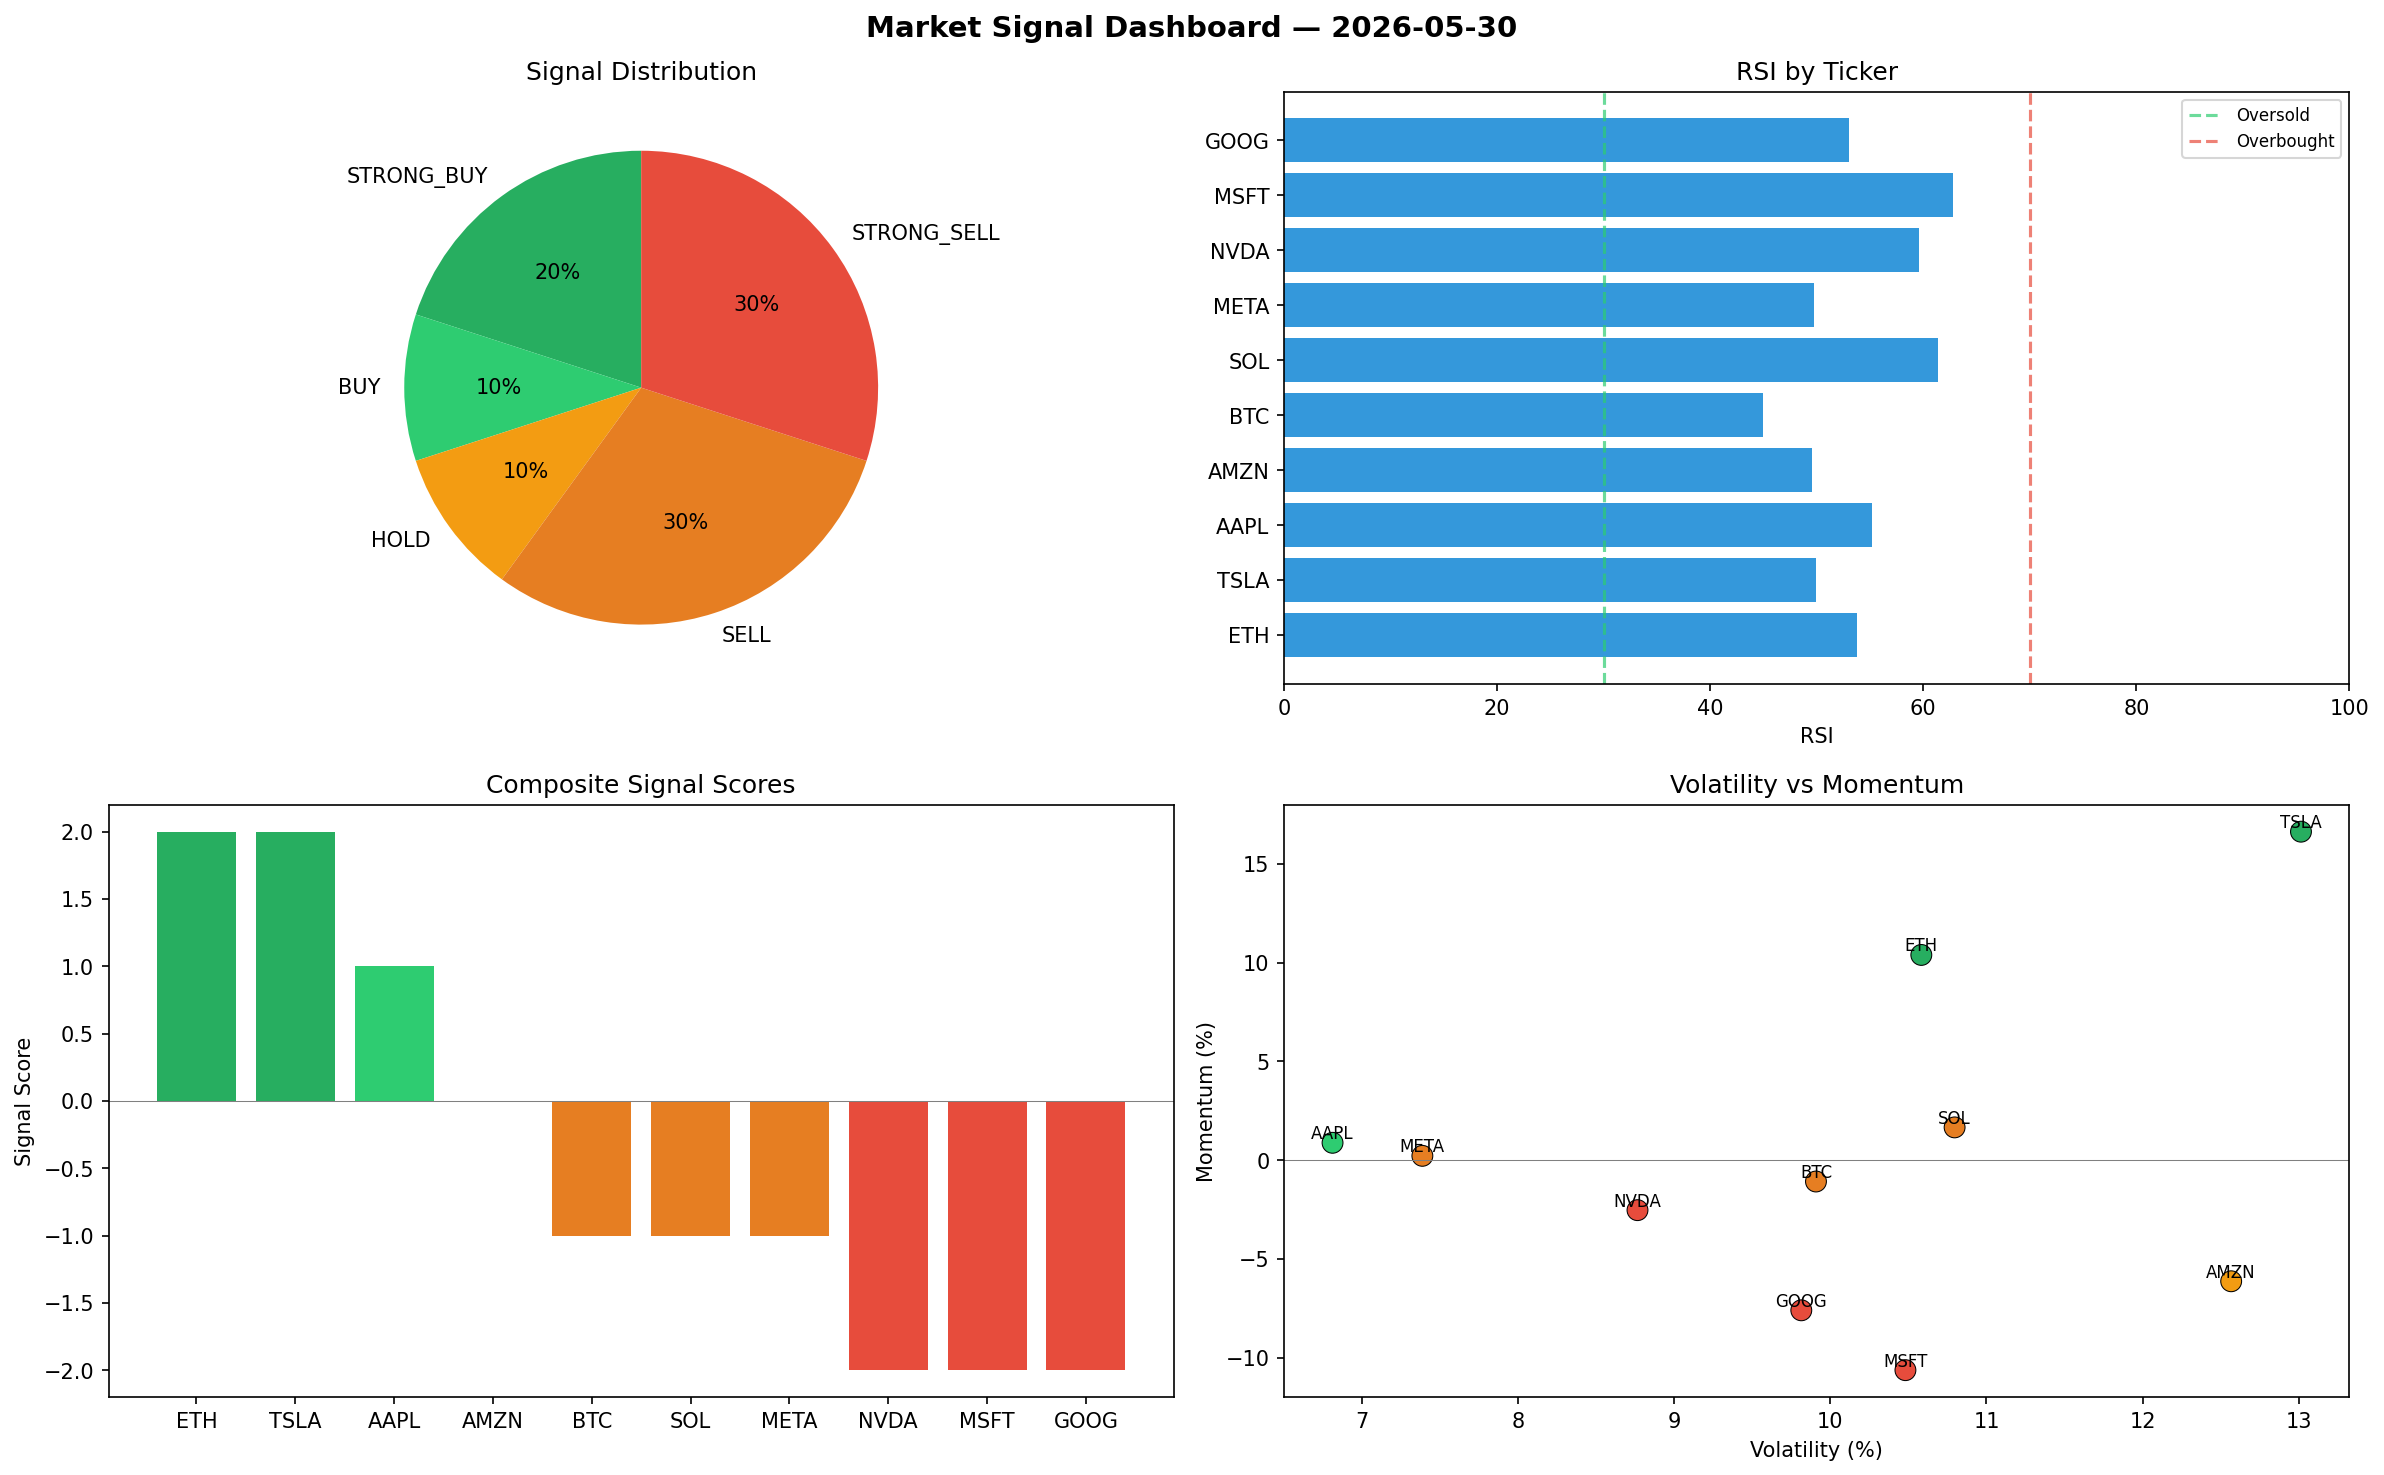
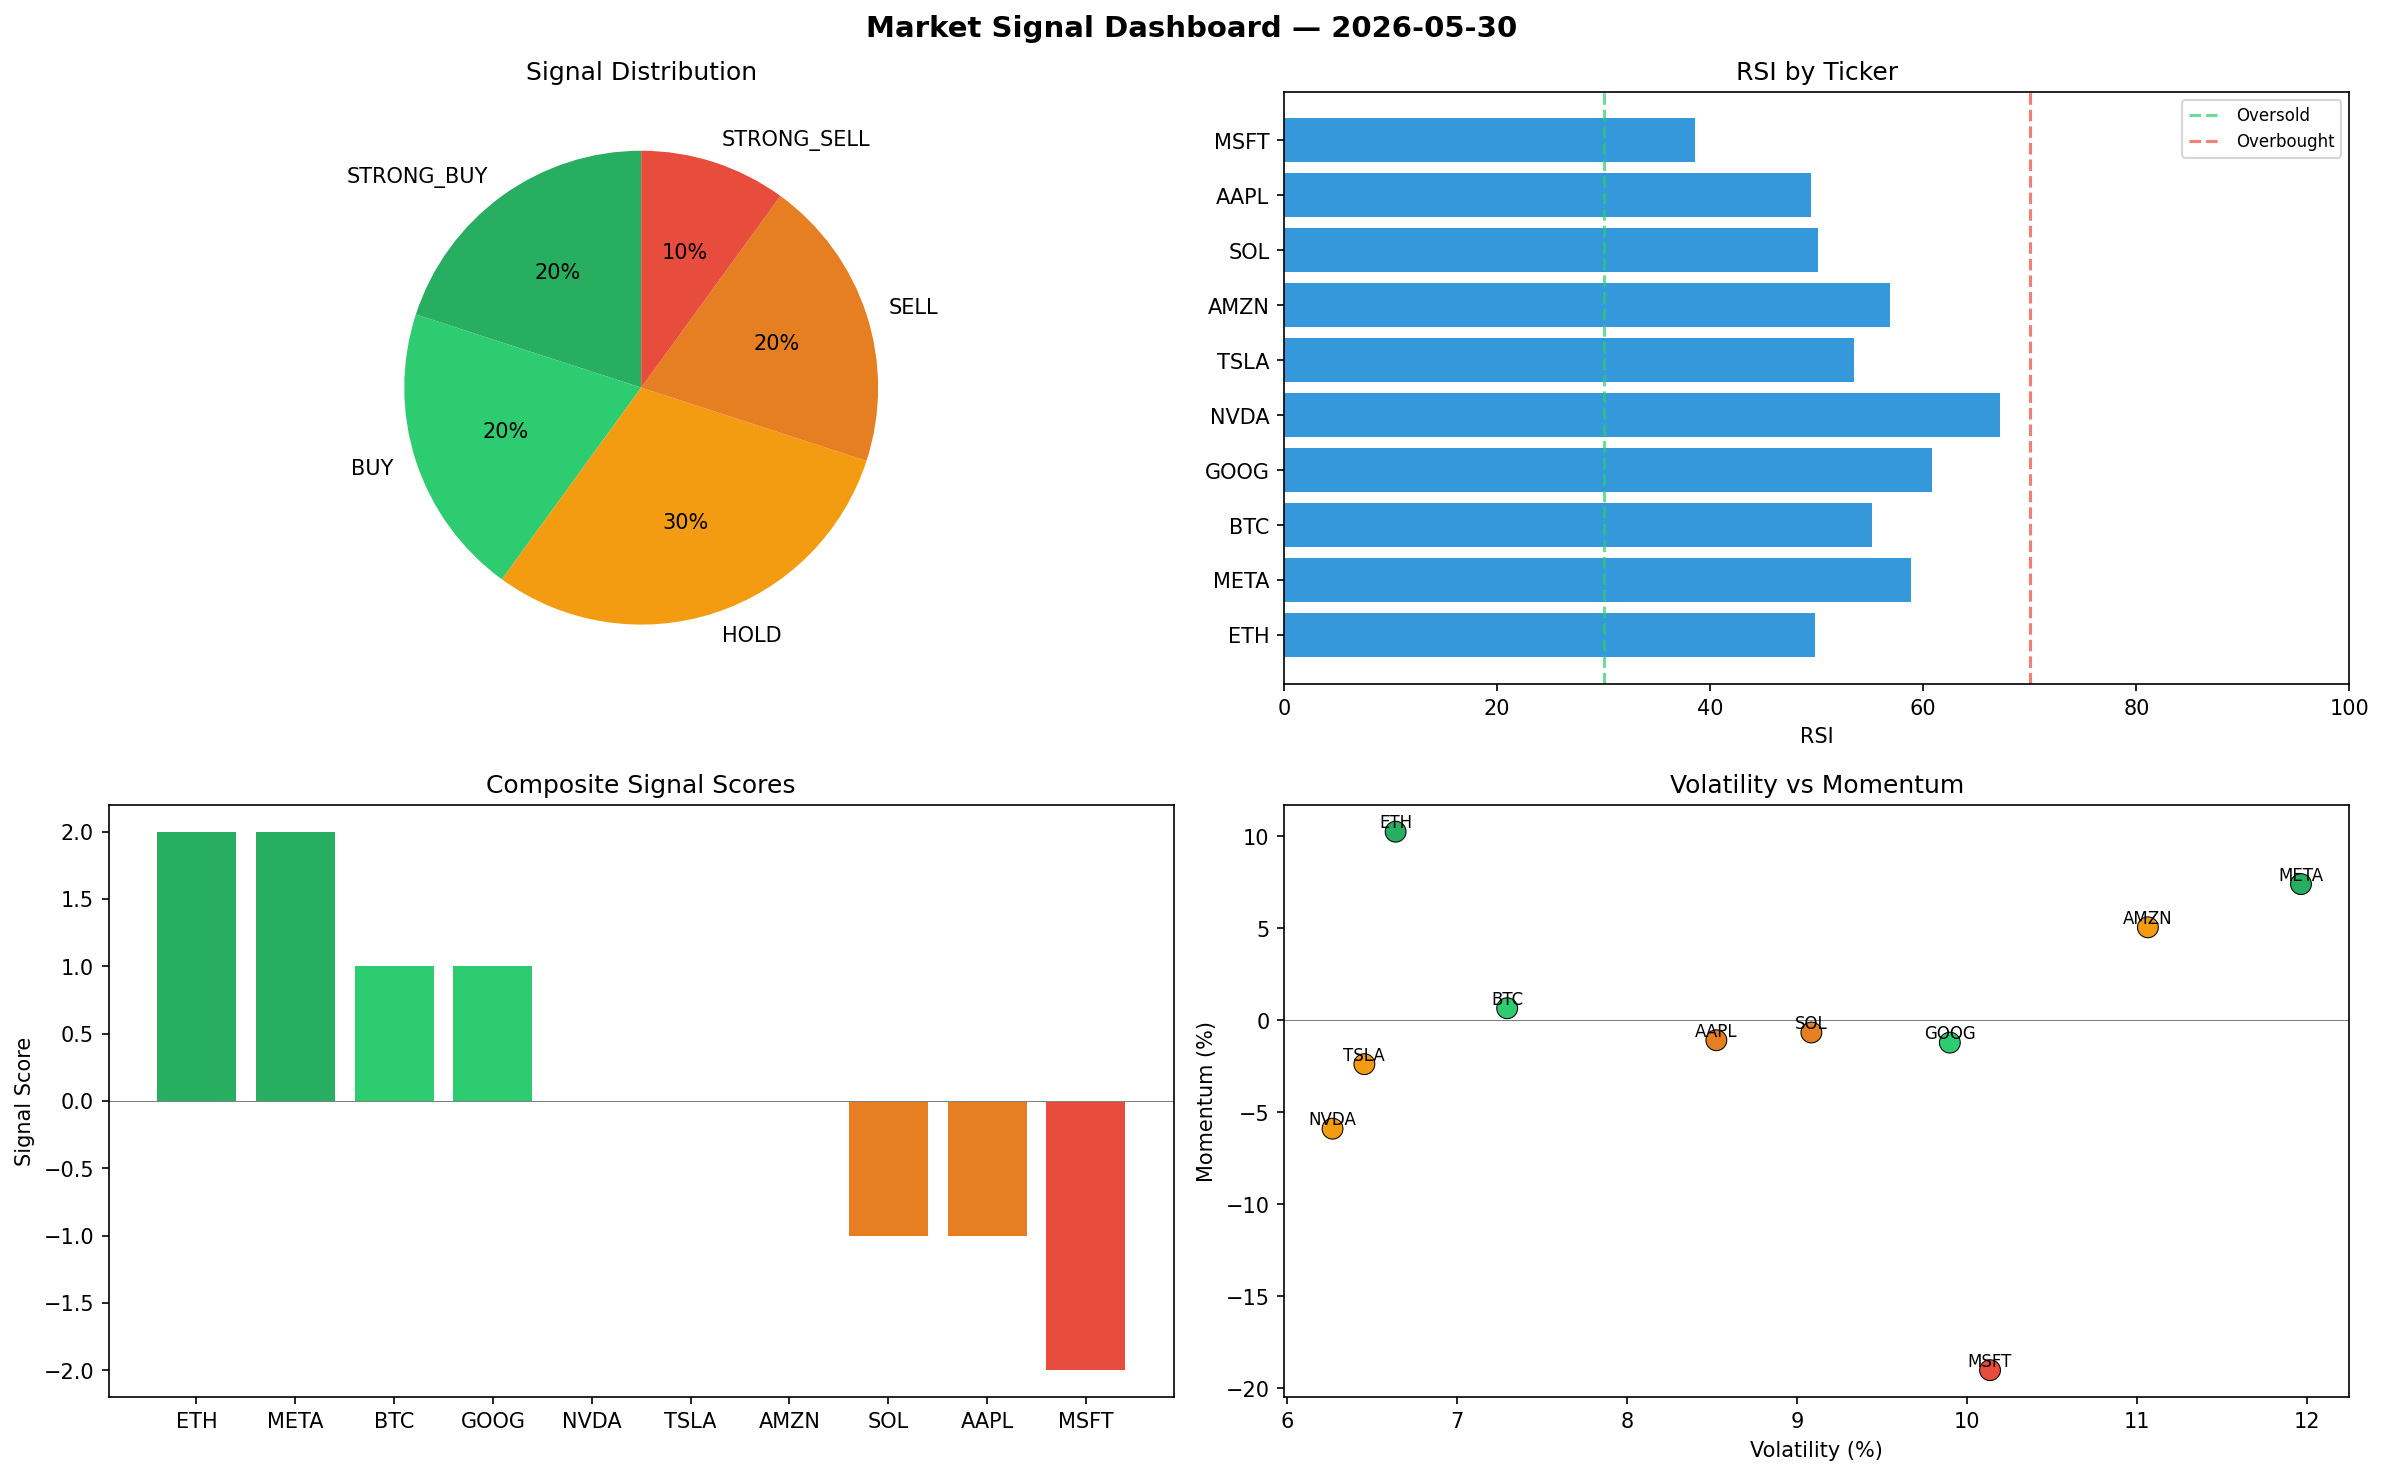
automated-bots: market signals 2026-05-30T21:30

diff --git a/logs/2026-05-30.md b/logs/2026-05-30.md
@@ -1,6 +1,6 @@
 # Market Signal Report — 2026-05-30
 
-**Run ID:** `0e91bd8d2e` | **Buy:** 3 | **Sell:** 6 | **Hold:** 1
+**Run ID:** `fe830b6c5d` | **Buy:** 4 | **Sell:** 3 | **Hold:** 3
 
 ![Dashboard](2026-05-30_dashboard.png)
 
@@ -8,28 +8,28 @@
 
 | Ticker | Price | Signal | Score | RSI | Momentum | Confidence |
 |--------|-------|--------|-------|-----|----------|------------|
-| ETH | $1342.41 | **STRONG_BUY** | 2 | 53.8 | 0.1039 | 0.5 |
-| TSLA | $3947.15 | **STRONG_BUY** | 2 | 49.92 | 0.1663 | 0.5 |
-| AAPL | $2708.06 | **BUY** | 1 | 55.2 | 0.0088 | 0.25 |
-| AMZN | $2866.18 | **HOLD** | 0 | 49.57 | -0.0613 | 0.0 |
-| BTC | $24.8 | **SELL** | -1 | 45.0 | -0.0108 | 0.25 |
-| SOL | $3420.59 | **SELL** | -1 | 61.37 | 0.0166 | 0.25 |
-| META | $4311.89 | **SELL** | -1 | 49.71 | 0.0022 | 0.25 |
-| NVDA | $4555.86 | **STRONG_SELL** | -2 | 59.59 | -0.0253 | 0.5 |
-| MSFT | $4098.46 | **STRONG_SELL** | -2 | 62.77 | -0.1063 | 0.5 |
-| GOOG | $2485.75 | **STRONG_SELL** | -2 | 53.04 | -0.076 | 0.5 |
+| ETH | $4583.74 | **STRONG_BUY** | 2 | 49.81 | 0.1026 | 0.5 |
+| META | $128.66 | **STRONG_BUY** | 2 | 58.89 | 0.0741 | 0.5 |
+| BTC | $4288.83 | **BUY** | 1 | 55.22 | 0.0066 | 0.25 |
+| GOOG | $678.85 | **BUY** | 1 | 60.86 | -0.0121 | 0.25 |
+| NVDA | $2088.13 | **HOLD** | 0 | 67.19 | -0.0589 | 0.0 |
+| TSLA | $2716.32 | **HOLD** | 0 | 53.46 | -0.0238 | 0.0 |
+| AMZN | $3729.07 | **HOLD** | 0 | 56.85 | 0.0506 | 0.0 |
+| SOL | $3387.85 | **SELL** | -1 | 50.1 | -0.0066 | 0.25 |
+| AAPL | $5124.69 | **SELL** | -1 | 49.43 | -0.0108 | 0.25 |
+| MSFT | $3329.86 | **STRONG_SELL** | -2 | 38.6 | -0.1902 | 0.5 |
 
 ## Delta vs Yesterday
 
 | Ticker | Today | Yesterday | Price Change | Signal Changed |
 |--------|-------|-----------|-------------|----------------|
-| ETH | STRONG_BUY | HOLD | 📉 -70.7% | ⚠ YES |
-| TSLA | STRONG_BUY | BUY | 📈 277.53% | ⚠ YES |
-| AAPL | BUY | STRONG_BUY | 📉 -23.54% | ⚠ YES |
-| AMZN | HOLD | HOLD | 📈 253.01% | — |
-| BTC | SELL | STRONG_BUY | 📉 -90.94% | ⚠ YES |
-| SOL | SELL | STRONG_BUY | 📈 145.22% | ⚠ YES |
-| META | SELL | BUY | 📈 98.71% | ⚠ YES |
-| NVDA | STRONG_SELL | HOLD | 📈 4468.19% | ⚠ YES |
-| MSFT | STRONG_SELL | HOLD | 📉 -7.61% | ⚠ YES |
-| GOOG | STRONG_SELL | STRONG_SELL | 📉 -34.45% | — |
+| ETH | STRONG_BUY | HOLD | 📈 0.05% | ⚠ YES |
+| META | STRONG_BUY | BUY | 📉 -94.07% | ⚠ YES |
+| BTC | BUY | STRONG_BUY | 📈 1466.47% | ⚠ YES |
+| GOOG | BUY | STRONG_SELL | 📉 -82.1% | ⚠ YES |
+| NVDA | HOLD | HOLD | 📈 1993.78% | — |
+| TSLA | HOLD | BUY | 📈 159.81% | ⚠ YES |
+| AMZN | HOLD | HOLD | 📈 359.29% | — |
+| SOL | SELL | STRONG_BUY | 📈 142.87% | ⚠ YES |
+| AAPL | SELL | STRONG_BUY | 📈 44.69% | ⚠ YES |
+| MSFT | STRONG_SELL | HOLD | 📉 -24.94% | ⚠ YES |
